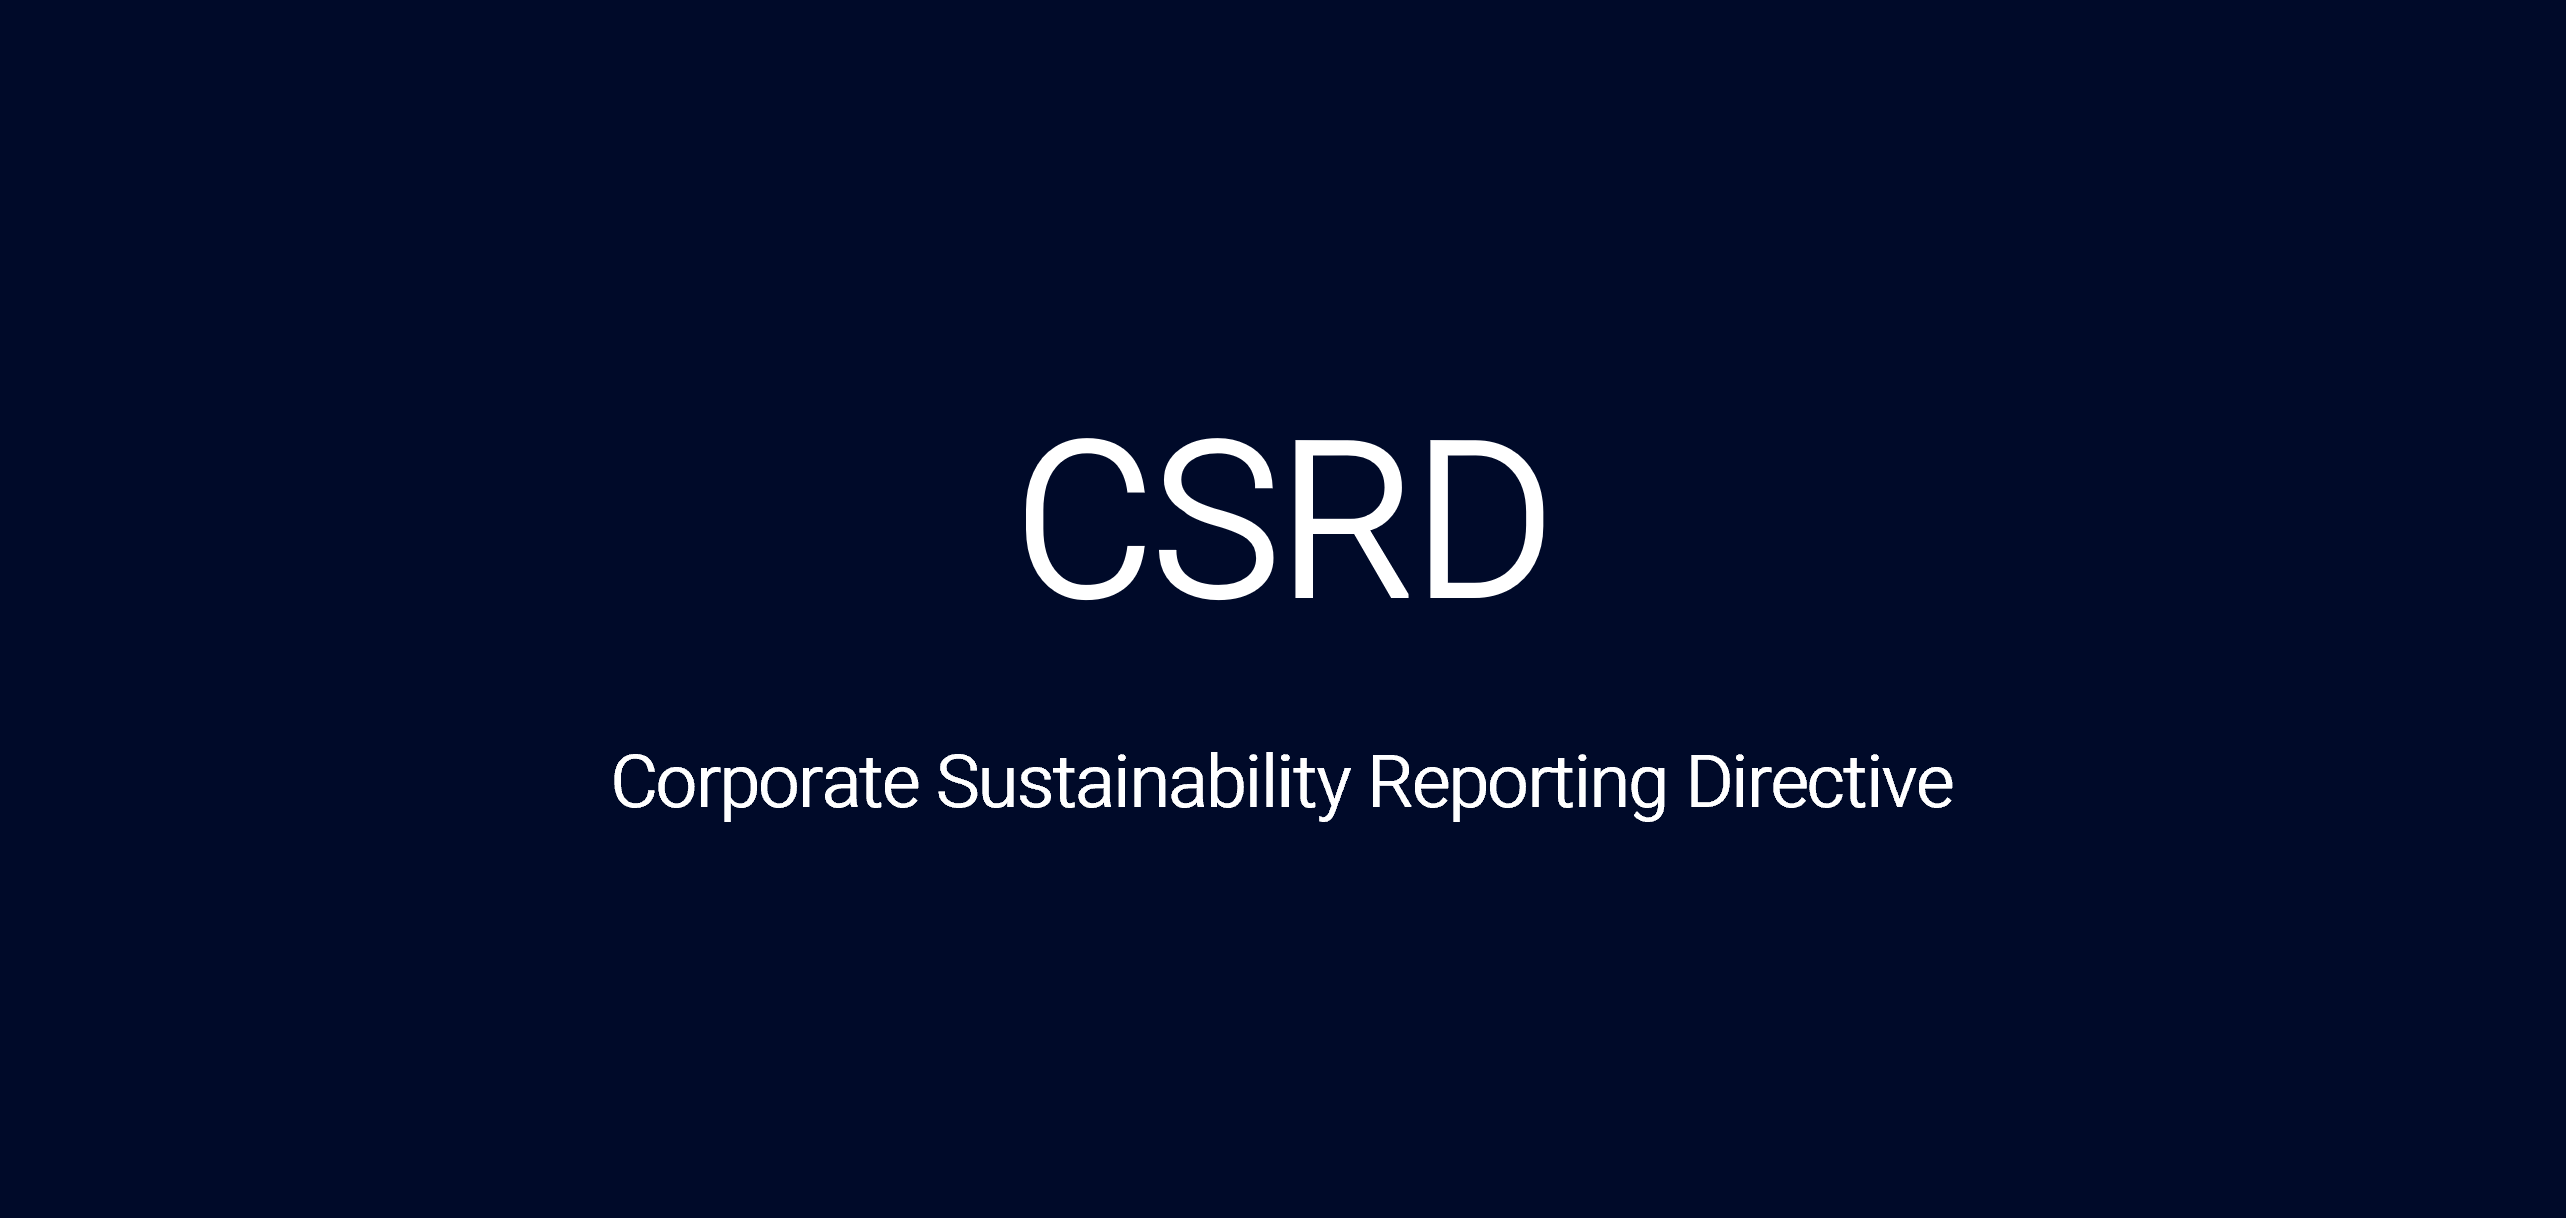
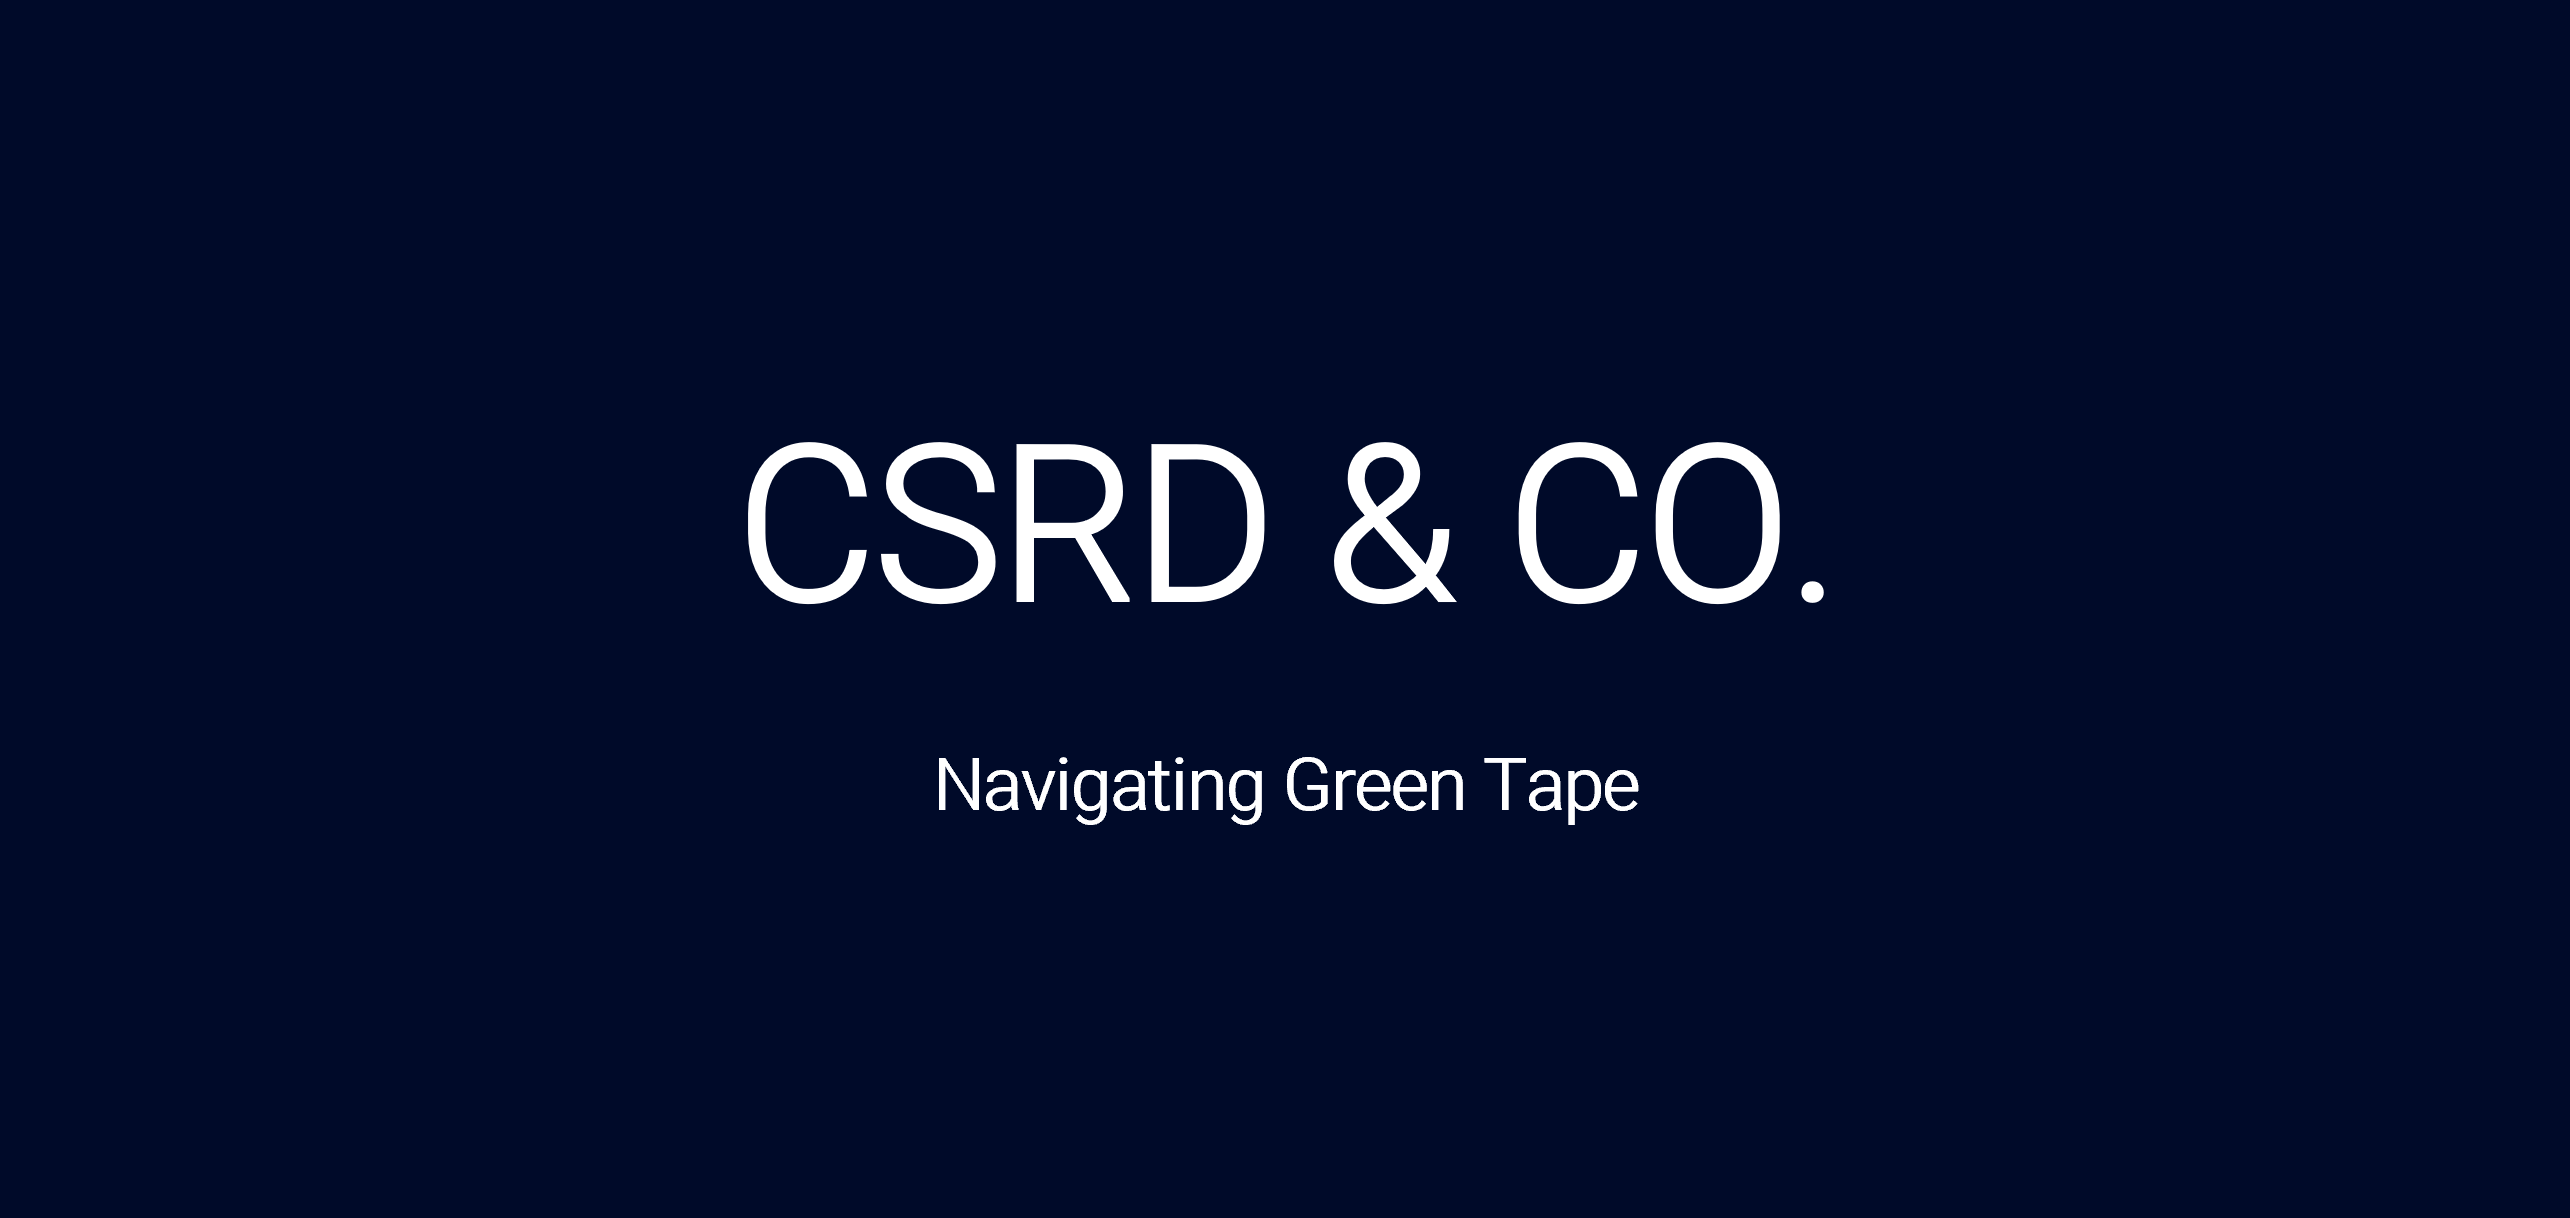
12.05.25 commit 22:19

Changed region(s): [[0.2806, 0.3432, 0.7171, 0.4992], [0.2494, 0.624, 0.7794, 0.6864]]

diff --git a/index.html b/index.html
@@ -23,7 +23,7 @@
         <div class="hero-content">
             <h1>Welcome to reconsult!</h1>
             <p>Driving sustainable change from TUM Campus Straubing</p>
-            <a href="#team" class="cta-button">Our Services</a>
+            <a href="#expertise" class="cta-button">Our Services</a>
             <div class="hero-image-container">
                 <img src="Images/about-image.jpg" alt="Located at TUM Campus Straubing" class="hero-image" />
             </div>
@@ -31,57 +31,150 @@
     </section>
 
     <section id="services" class="services">
-        <h2>Our Services</h2>
+        <h2>Our DNA</h2>
         <div class="services-grid">
             <div class="service-card">
                 <img src="Images/service-icon.svg" alt="Service Icon" class="service-icon" />
-                <h3>Academic Guidance</h3>
-                <p>Expert advice on course selection and academic planning</p>
+                <h3>Academic Excellence</h3>
+                <p>We combine intellectual rigor<br>with real-world relevance</p>
             </div>
             <div class="service-card">
                 <img src="Images/service-icon.svg" alt="Service Icon" class="service-icon" />
-                <h3>Career Counseling</h3>
-                <p>Professional guidance for your future career path</p>
+                <h3>Peers as Mentors</h3>
+                <p>We grow together —<br>through coaching, collaboration, and shared ambition</p>
             </div>
             <div class="service-card">
                 <img src="Images/service-icon.svg" alt="Service Icon" class="service-icon" />
-                <h3>Study Skills</h3>
-                <p>Learn effective study techniques and time management</p>
+                <h3>Real Impact</h3>
+                <p>Climate action,<br>not climate talk</p>
             </div>
         </div>
     </section>
 
-    <section class="resources-section">
+    <section id="expertise" class="resources-section">
         <div class="resources-content">
+            <h2 class="resources-headline">Our Array of Expertise, from Academia to Practice</h2>
             <div class="resources-grid">
-                <div class="resources-text">
-                    <h2>Our Array of Expertise</h2>
-                    <p>Our comprehensive suite of professional services caters to a diverse clientele, ranging from homeowners to commercial developers.</p>
-                </div>
                 <div class="resources-image-container">
                     <img src="Images/csrd.png" alt="CSRD" class="resources-image" />
+                </div>
+                <div class="resources-text">
+                    <ul>
+                        <li>Map data gaps and design CSRD-ready reporting workflows</li>
+                        <li>Translate ESRS metrics into decision-making dashboards</li>
+                        <li>Train teams on double-materiality and audit readiness</li>
+                    </ul>
+                </div>
+                <div class="resources-text">
+                    <ul>
+                        <li>Spot material loops, engineer waste-free product cycles</li>
+                        <li>Build business cases for reuse and secondary markets</li>
+                        <li>Quantify savings in cost, carbon, and resources</li>
+                    </ul>
                 </div>
                 <div class="resources-image-container">
                     <img src="Images/circular.png" alt="Circular" class="resources-image" />
                 </div>
+                <div class="resources-image-container">
+                    <img src="Images/strategy.png" alt="Strategy" class="resources-image" />
+                </div>
                 <div class="resources-text">
-                    <h2>Straight from Campus</h2>
-                    <p>Our comprehensive suite of professional services caters to a diverse clientele, ranging from homeowners to commercial developers.</p>
+                    <ul>
+                        <li>Benchmark today's footprint and set science-based targets</li>
+                        <li>Prioritise levers — from quick wins to strategic pivots</li>
+                        <li>Align governance, incentives, and financing towards net-zero</li>
+                    </ul>
+                </div>
+                <div class="resources-text">
+                    <ul>
+                        <li>Embed ESG KPIs into budgeting and forecasting</li>
+                        <li>Deploy internal carbon pricing and ROI models</li>
+                        <li>Deliver real-time financial and impact data</li>
+                    </ul>
+                </div>
+                <div class="resources-image-container">
+                    <img src="Images/controlling.png" alt="Controlling" class="resources-image" />
                 </div>
             </div>
         </div>
     </section>
 
+
+    <section id="team" class="team">
+        <h2>Our Team</h2>
+        <div class="team-grid">
+            <div class="team-member">
+                <img src="Images/placeholder.png" alt="Team Member" class="resources-image" />
+                <div class="member-name">Moritz</div>
+                <div class="member-role">Strategy & Circularity</div>
+                <a href="#" class="linkedin-icon" target="_blank"><i class="fab fa-linkedin"></i></a>
+            </div>
+            <div class="team-member">
+                <img src="Images/placeholder.png" alt="Team Member" class="resources-image" />
+                <div class="member-name">Laura</div>
+                <div class="member-role">CSRD & Reporting</div>
+                <a href="#" class="linkedin-icon" target="_blank"><i class="fab fa-linkedin"></i></a>
+            </div>
+            <div class="team-member">
+                <img src="Images/placeholder.png" alt="Team Member" class="resources-image" />
+                <div class="member-name">Simon</div>
+                <div class="member-role">Finance & ESG KPIs</div>
+                <a href="#" class="linkedin-icon" target="_blank"><i class="fab fa-linkedin"></i></a>
+            </div>
+            <div class="team-member">
+                <img src="Images/placeholder.png" alt="Team Member" class="resources-image" />
+                <div class="member-name">Jonathan</div>
+                <div class="member-role">Data & Impact</div>
+                <a href="#" class="linkedin-icon" target="_blank"><i class="fab fa-linkedin"></i></a>
+            </div>
+            <div class="team-member">
+                <img src="Images/placeholder.png" alt="Team Member" class="resources-image" />
+                <div class="member-name">Leah</div>
+                <div class="member-role">Materiality & Analysis</div>
+                <a href="#" class="linkedin-icon" target="_blank"><i class="fab fa-linkedin"></i></a>
+            </div>
+            <div class="team-member">
+                <img src="Images/placeholder.png" alt="Team Member" class="resources-image" />
+                <div class="member-name">Gabriel</div>
+                <div class="member-role">Governance & Reporting</div>
+                <a href="#" class="linkedin-icon" target="_blank"><i class="fab fa-linkedin"></i></a>
+            </div>
+            <div class="team-member">
+                <img src="Images/placeholder.png" alt="Team Member" class="resources-image" />
+                <div class="member-name">Sebastian</div>
+                <div class="member-role">Circular Design</div>
+                <a href="#" class="linkedin-icon" target="_blank"><i class="fab fa-linkedin"></i></a>
+            </div>
+            <div class="team-member">
+                <img src="Images/placeholder.png" alt="Team Member" class="resources-image" />
+                <div class="member-name">Lisa</div>
+                <div class="member-role">Decarbonization Strategy</div>
+                <a href="#" class="linkedin-icon" target="_blank"><i class="fab fa-linkedin"></i></a>
+            </div>
+            <div class="team-member">
+                <img src="Images/placeholder.png" alt="Team Member" class="resources-image" />
+                <div class="member-name">Elena</div>
+                <div class="member-role">Stakeholder Training</div>
+                <a href="#" class="linkedin-icon" target="_blank"><i class="fab fa-linkedin"></i></a>
+            </div>
+            <div class="team-member">
+                <img src="Images/placeholder.png" alt="Team Member" class="resources-image" />
+                <div class="member-name">Leo</div>
+                <div class="member-role">Audit Readiness</div>
+                <a href="#" class="linkedin-icon" target="_blank"><i class="fab fa-linkedin"></i></a>
+            </div>
+        </div>        
+    </section>
+    
     <section id="about" class="about">
         <h2>Our Mission</h2>
         <div class="about-content">
-            <p>reconsult, located at TUM's Sustainability Campus in Straubing, is a student consultancy committed to helping students achieve their academic and career goals. Our team of experienced consultants provides personalized guidance and support to ensure your success.</p>
-            <a href="#team" class="cta-button">Meet the Team</a>
+            <p>As the first student sustainability consultancy from TUM Campus Straubing, we turn sustainability knowledge into real-world impact. We rethink business as usual — data-driven, hands-on, and always purpose-first.</p>
             <div class="about-image-container">
                 <img src="Images/straubing.png" alt="Straubing" class="about-image" />
             </div>
         </div>
-    </section>
+    </section>    
 
     <footer>
         <div class="footer-content">

diff --git a/styles.css b/styles.css
@@ -18,7 +18,7 @@ body {
 h1, h2, h3 {
     font-family: 'Inria Serif', serif;
     font-weight: 400;
-    font-style: italic;
+    font-style: normal;
 }
 
 /* Navigation */
@@ -159,7 +159,7 @@ h1, h2, h3 {
     display: flex;
     flex-wrap: wrap;
     justify-content: center;
-    gap: 2.5rem;
+    gap: 10rem;
     margin-bottom: 8rem;
 }
 
@@ -196,6 +196,8 @@ h1, h2, h3 {
     color: #000A29;
     font-size: 1rem;
     font-family: 'Roboto', sans-serif;
+    max-width: 320px;
+    margin: 0 auto;
 }
 
 .service-icon {
@@ -209,8 +211,8 @@ h1, h2, h3 {
 
 /* About Section */
 .about {
-    padding: 4rem 0 2rem 0;
-    background: none;
+    padding: 6rem 0;
+    background: #ececec;
 }
 
 .about h2 {
@@ -229,19 +231,17 @@ h1, h2, h3 {
     color: #000A29;
     font-size: 1.1rem;
     font-family: 'Roboto', sans-serif;
+    padding-bottom: 3rem; /* NEW: Adds spacing after the paragraph */
 }
 
-.about-content .cta-button {
-    margin-top: 2.5rem;
-    margin-bottom: 2.5rem;
-}
 
 .about-image-container {
     display: flex;
     justify-content: center;
     align-items: center;
-    margin-top: 0;
+    margin-top: 2.5rem; /* UPDATED from 0 */
 }
+
 
 .about-image {
     width: 90vw;
@@ -339,7 +339,7 @@ footer {
     color: #000A29;
     font-size: 1.1rem;
     font-weight: 400;
-    font-style: italic;
+    font-style: normal;
 }
 
 .social-links {
@@ -427,6 +427,12 @@ footer {
 .resources-content {
     max-width: 1200px;
     margin: 0 auto;
+    display: flex;
+    flex-direction: column;
+    justify-content: center;
+    align-items: center;
+    height: 100%;
+    min-height: 500px;
 }
 
 .resources-grid {
@@ -448,8 +454,8 @@ footer {
     text-align: center;
     font-size: 2.2rem;
     margin-bottom: 1.2rem;
-    font-family: 'Inria Serif', serif;
-    font-weight: 400;
+    font-family: 'Roboto', sans-serif;
+    font-weight: 700;
     font-style: normal;
     color: #000A29;
 }
@@ -460,6 +466,16 @@ footer {
     color: #000A29;
     margin-bottom: 2rem;
     font-family: 'Roboto', sans-serif;
+}
+
+.resources-text ul {
+    text-align: left;
+    margin: 0 auto;
+    display: table;
+}
+
+.resources-text li {
+    text-align: left;
 }
 
 .resources-image-container {
@@ -489,4 +505,92 @@ footer {
     font-weight: 400;
     font-style: normal;
     color: #000A29;
+}
+
+.resources-headline {
+    text-align: center;
+    font-style: normal;
+    font-size: 2.2rem;
+    margin-top: -2cm;
+    margin-bottom: 3rem;
+}
+
+.resources-grid .resources-text h2 {
+    font-family: 'Roboto', sans-serif !important;
+    font-weight: 700 !important;
+    font-style: normal !important;
+    font-size: 1rem !important;
 } 
+
+/* Team Section */
+.team {
+    padding: 6rem 1rem;
+    background-color: #f7f7f7;
+    text-align: center;
+}
+
+.team h2 {
+    font-size: 2rem;
+    margin-bottom: 3rem;
+    font-family: 'Inria Serif', serif;
+    font-weight: 400;
+    font-style: normal;
+    color: #000A29;
+}
+
+.team-grid {
+    display: grid;
+    grid-template-columns: repeat(auto-fit, minmax(180px, 1fr));
+    gap: 3rem;
+    max-width: 1200px;
+    margin: 0 auto;
+    padding: 0 1rem;
+}
+
+.team-member {
+    display: flex;
+    flex-direction: column;
+    align-items: center;
+}
+
+.team-member img {
+    width: 150px;
+    height: 150px;
+    object-fit: cover;
+    border-radius: 50%;
+    border: 6px solid #BEE7DF;
+    background: #eee;
+    margin-bottom: 1rem;
+}
+
+.team-member p {
+    font-size: 1rem;
+    color: #000A29;
+    max-width: 160px;
+    text-align: center;
+    font-family: 'Roboto', sans-serif;
+}
+
+.team-member .member-name {
+    font-size: 1rem;
+    font-weight: 500;
+    color: #000A29;
+    font-family: 'Roboto', sans-serif;
+}
+
+.team-member .member-role {
+    font-size: 0.95rem;
+    color: #000A29;
+    font-family: 'Roboto', sans-serif;
+    margin-bottom: 0.5rem;
+}
+
+.linkedin-icon {
+    color: #000B28;
+    font-size: 1.3rem;
+    transition: color 0.2s;
+}
+
+.linkedin-icon:hover {
+    color: #333a5c;
+}